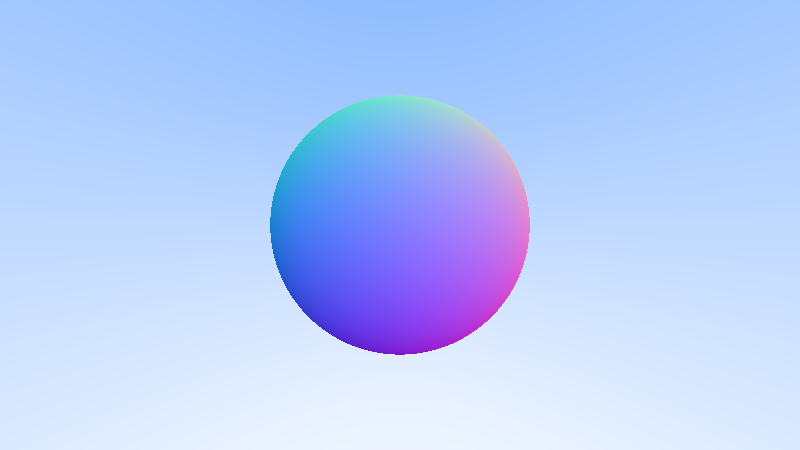
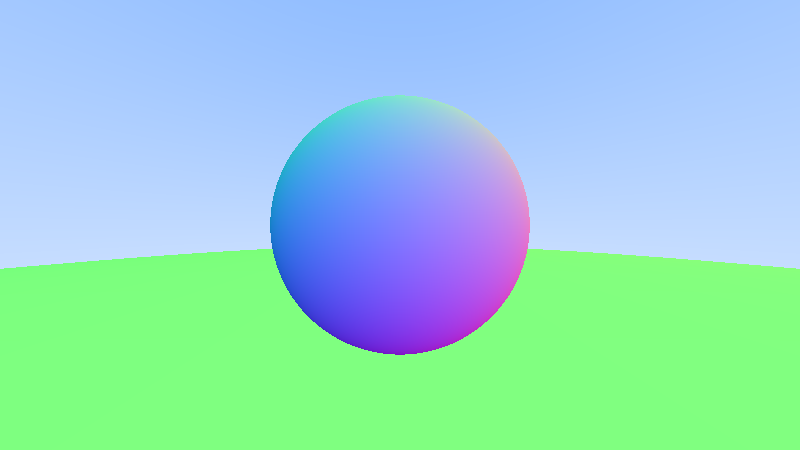
aggiunto  il  codice per supportare multiple sfere

diff --git a/src/main.cpp b/src/main.cpp
@@ -1,36 +1,29 @@
 #include "rstb_image.h"
 #include "sdltemplate.h"
-#include "Ray.h"
+#include "rtweekend.h"
 #include "Color.h"
-#include "Vec3.h"
+#include "Hittable_list.h"
+#include "Sphere.h"
 
-double hit_sphere(const point3& center, double radius, const ray& r) {
-    vec3 oc = r.origin() - center;
-    auto a = r.direction().length_squared();
-    auto half_b = dot(oc, r.direction());
-    auto c = oc.length_squared() - radius * radius;
-    auto discriminant = half_b * half_b - a * c;
-
-    if (discriminant < 0) {
-        return -1.0;
-    }
-    else {
-        return (-half_b - sqrt(discriminant)) / a;
-    }
-}
-
-color ray_color(const ray& r) {
-    auto t = hit_sphere(point3(0, 0, -1), 0.5, r);
-    if (t > 0.0) {
-        vec3 N = unit_vector(r.at(t) - vec3(0, 0, -1));
-        return 0.5 * color(N.x() + 1, N.y() + 1, N.z() + 1);
+color ray_color(const ray& r, const hittable& world) {
+    hit_record rec;
+    if (world.hit(r, 0, infinity, rec)) {
+        return 0.5 * (rec.normal + color(1, 1, 1));
     }
     vec3 unit_direction = unit_vector(r.direction());
-    t = 0.5 * (unit_direction.y() + 1.0);
+    auto t = 0.5 * (unit_direction.y() + 1.0);
     return (1.0 - t) * color(1.0, 1.0, 1.0) + t * color(0.5, 0.7, 1.0);
 }
 
+
 int main([[maybe_unused]] int argc, [[maybe_unused]] char* argv[]) {
+    // World
+    hittable_list world;
+    world.add(make_shared<sphere>(point3(0, 0, -1), 0.5));
+    world.add(make_shared<sphere>(point3(0, -100.5, -1), 100));
+
+    // Camera
+
     auto viewport_height = 2.0;
     auto viewport_width = SDLRT::aspect_ratio * viewport_height;
     auto focal_length = 1.0;
@@ -39,6 +32,8 @@ int main([[maybe_unused]] int argc, [[maybe_unused]] char* argv[]) {
     auto horizontal = vec3(viewport_width, 0, 0);
     auto vertical = vec3(0, viewport_height, 0);
     auto lower_left_corner = origin - horizontal / 2 - vertical / 2 - vec3(0, 0, focal_length);
+
+    // Render
 
     std::vector<unsigned char> data(SDLRT::dataSize);
     sdltemplate::sdl("Ray Tracer", SDLRT::w, SDLRT::h);
@@ -49,7 +44,7 @@ int main([[maybe_unused]] int argc, [[maybe_unused]] char* argv[]) {
             auto u = double(i) / (SDLRT::w - 1);
             auto v = double(j) / (SDLRT::h - 1);
             ray r(origin, lower_left_corner + u * horizontal + v * vertical - origin);
-            color pcolor = ray_color(r);
+            color pcolor = ray_color(r, world);
             std::size_t index = SDLRT::nCh * CAST_ST(j * SDLRT::w + i);
             write_color(data, pcolor, index);
             sdltemplate::setDrawColor(sdltemplate::createColor(data.at(index), data.at(index+1), data.at(index+2), 255));

diff --git a/src/Sphere.h b/src/Sphere.h
@@ -1,0 +1,43 @@
+#pragma once
+#include "Hittable.h"
+#include "Vec3.h"
+
+class sphere : public hittable {
+public:
+    sphere() {}
+    sphere(point3 cen, double r) : center(cen), radius(r) {};
+
+    virtual bool hit(
+        const ray& r, double t_min, double t_max, hit_record& rec) const override;
+
+public:
+    point3 center;
+    double radius;
+};
+
+bool sphere::hit(const ray& r, double t_min, double t_max, hit_record& rec) const {
+    vec3 oc = r.origin() - center;
+    auto a = r.direction().length_squared();
+    auto half_b = dot(oc, r.direction());
+    auto c = oc.length_squared() - radius * radius;
+
+    auto discriminant = half_b * half_b - a * c;
+    if (discriminant < 0) return false;
+    auto sqrtd = sqrt(discriminant);
+
+    // Find the nearest root that lies in the acceptable range.
+    auto root = (-half_b - sqrtd) / a;
+    if (root < t_min || t_max < root) {
+        root = (-half_b + sqrtd) / a;
+        if (root < t_min || t_max < root)
+            return false;
+    }
+
+    rec.t = root;
+    rec.p = r.at(rec.t);
+    rec.normal = (rec.p - center) / radius;
+    vec3 outward_normal = (rec.p - center) / radius;
+    rec.set_face_normal(r, outward_normal);
+
+    return true;
+}

diff --git a/src/Hittable_list.h b/src/Hittable_list.h
@@ -1,0 +1,36 @@
+#pragma once
+#include "Hittable.h"
+
+using std::shared_ptr;
+using std::make_shared;
+
+class hittable_list : public hittable {
+public:
+    hittable_list() {}
+    hittable_list(shared_ptr<hittable> object) { add(object); }
+
+    void clear() { objects.clear(); }
+    void add(shared_ptr<hittable> object) { objects.push_back(object); }
+
+    virtual bool hit(
+        const ray& r, double t_min, double t_max, hit_record& rec) const override;
+
+public:
+    std::vector<shared_ptr<hittable>> objects;
+};
+
+bool hittable_list::hit(const ray& r, double t_min, double t_max, hit_record& rec) const {
+    hit_record temp_rec;
+    bool hit_anything = false;
+    auto closest_so_far = t_max;
+
+    for (const auto& object : objects) {
+        if (object->hit(r, t_min, closest_so_far, temp_rec)) {
+            hit_anything = true;
+            closest_so_far = temp_rec.t;
+            rec = temp_rec;
+        }
+    }
+
+    return hit_anything;
+}

diff --git a/src/rtweekend.h b/src/rtweekend.h
@@ -1,0 +1,28 @@
+#pragma once
+#include "headers.h"
+#include "Ray.h"
+#include "Vec3.h"
+
+using std::shared_ptr;
+using std::make_shared;
+using std::sqrt;
+
+// Constants
+
+constexpr double infinity = std::numeric_limits<double>::infinity();
+constexpr double pi = glm::pi<double>();
+
+inline double degrees_to_radians(double degrees) {
+    return degrees * pi / 180.0;
+}
+
+
+inline double random_double() {
+    static std::uniform_real_distribution<double> distribution(0.0, 1.0);
+    static std::mt19937 generator;
+    return distribution(generator);
+}
+inline double random_double(double min, double max) {
+    // Returns a random real in [min,max).
+    return min + (max - min) * random_double();
+}

diff --git a/src/Hittable.h b/src/Hittable.h
@@ -1,0 +1,18 @@
+#pragma once
+#include "Ray.h"
+struct hit_record {
+    point3 p;
+    vec3 normal;
+    double t;
+    bool front_face;
+
+    inline void set_face_normal(const ray& r, const vec3& outward_normal) {
+        front_face = dot(r.direction(), outward_normal) < 0;
+        normal = front_face ? outward_normal : -outward_normal;
+    }
+};
+
+class hittable {
+public:
+    virtual bool hit(const ray& r, double t_min, double t_max, hit_record& rec) const = 0;
+};

diff --git a/src/headers.h b/src/headers.h
@@ -32,6 +32,9 @@
 #include <memory>
 #include <cstdlib>
 #include <ctime>
+#include <cmath>
+#include <limits>
+#include <random>
 // Restore warning levels.
 #ifdef _MSC_VER
 	// Microsoft Visual C++ Compiler
